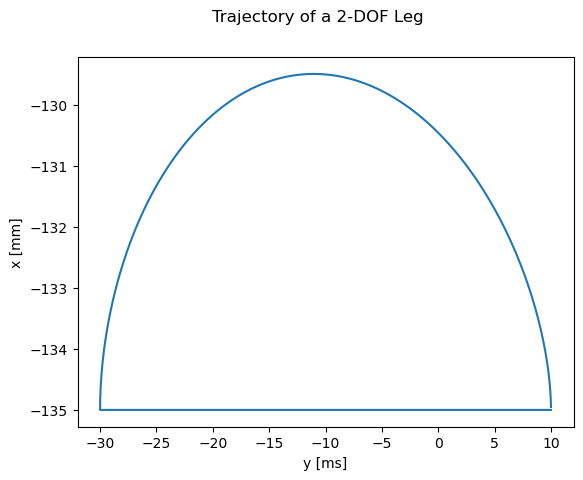
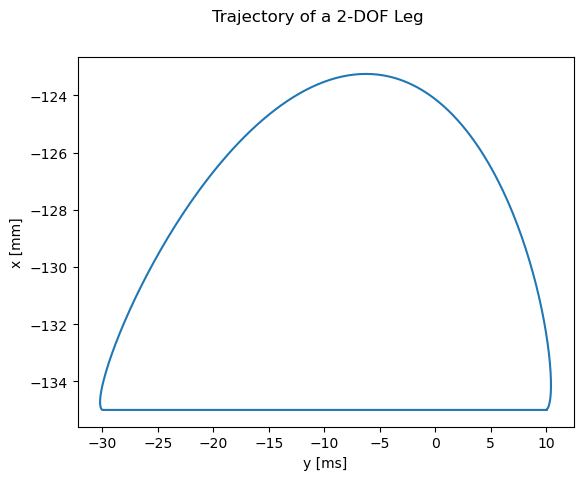
trt

diff --git a/projects/project_robo_dog.html b/projects/project_robo_dog.html
@@ -196,36 +196,30 @@
 									With the same idea, the angle of the hip can be calculated:
 									<div style="text-align: center;">
 										<math xmlns="http://www.w3.org/1998/Math/MathML">
-											<msub><mi>&#945;</mi><mi>hip</mi></msub>
-											<mo>=</mo>
-											<mi>arctan</mi>
-											<mo>(</mo>
-												<mfrac>
-												<mi>Y</mi>
-												<mi>X</mi>
-												</mfrac>
-											<mo>)</mo>
-											<mo>-</mo>
-											<mi>arccos</mi>
-											<mo>(</mo>
-												<mfrac>
-												<mrow>
-													<msup><msub><mi>L</mi><mi>tight</mi></msub><mn>2</mn></msup>
-													<mo>+</mo>
-													<msup><mi>d</mi><mn>2</mn></msup>
-													<mo>-</mo>
-													<msup><msub><mi>L</mi><mi>lowerleg</mi></msub><mn>2</mn></msup>
-												</mrow>
-												<mrow>
-													<mn>2</mn>
-													<mo>&#x2062;</mo>
-													<msub><mi>L</mi><mi>tight</mi></msub>
-													<mo>&#x2062;</mo>
-													<mi>d</mi>
-												</mrow>
-												</mfrac>
-											<mo>)</mo>
-										</math>
+  <mrow>
+    <mi>B</mi>
+    <mo>(</mo><mi>t</mi><mo>)</mo>
+    <mo>=</mo>
+    <munder>
+      <mo>∑</mo>
+      <mrow>
+        <mi>i</mi><mo>=</mo><mn>0</mn>
+      </mrow>
+    </munder>
+    <msup><mn></mn><mn>4</mn></msup>
+    <mo> </mo>
+    <mrow>
+      <mi>binom</mi>
+      <mo>(</mo><mn>4</mn><mo>,</mo><mi>i</mi><mo>)</mo>
+      <mo>&#x2062;</mo>
+      <msup><mo>(</mo><mi>1</mi><mo>-</mo><mi>t</mi><mo>)</mo><mrow><mn>4</mn><mo>-</mo><mi>i</mi></mrow></msup>
+      <mo>&#x2062;</mo>
+      <msup><mi>t</mi><mi>i</mi></msup>
+      <mo>&#x2062;</mo>
+      <msub><mi>P</mi><mi>i</mi></msub>
+    </mrow>
+  </mrow>
+</math>
 										<br>
 									</div>
 									<br>
@@ -235,6 +229,62 @@
 									</p>
 									<h4>Movement of the legs</h4>
 									<p>
+										With the help of the inverse kinematic, it is possible to define trajectories for a feet in x and y dimension. <br>
+										There are some requirements for the trajectories during the walking gait: <br>
+										<ul>	
+											<li>The foot has to be lifted during the forward movement.</li>
+											<li>The foot has to move smoothly.</li>
+											<li>The foot has to be set down smoothly.</li>
+											<li>The foot has to be accelarated smoothly.</li>
+										</ul>
+										These requirements can be fulfilled with a Bezier curve of fourth order which is shown below. <br>
+										<br>
+										<div style="text-align: center;">
+											<math xmlns="http://www.w3.org/1998/Math/MathML">
+												<mrow>
+													<mi>B</mi>
+													<mo>(</mo><mi>t</mi><mo>)</mo>
+													<mo>=</mo>
+													<msup><mo>(</mo><mi>1</mi><mo>-</mo><mi>t</mi><mo>)</mo><mn>4</mn></msup>
+													<mo>&#x2062;</mo>
+													<msub><mi>P</mi><mn>0</mn></msub>
+													<mo>+</mo>
+													<mn>4</mn>
+													<mo>&#x2062;</mo>
+													<msup><mo>(</mo><mi>1</mi><mo>-</mo><mi>t</mi><mo>)</mo><mn>3</mn></msup>
+													<mo>&#x2062;</mo>
+													<mi>t</mi>
+													<mo>&#x2062;</mo>
+													<msub><mi>P</mi><mn>1</mn></msub>
+													<mo>+</mo>
+													<mn>6</mn>
+													<mo>&#x2062;</mo>
+													<msup><mo>(</mo><mi>1</mi><mo>-</mo><mi>t</mi><mo>)</mo><mn>2</mn></msup>
+													<mo>&#x2062;</mo>
+													<msup><mi>t</mi><mn>2</mn></msup>
+													<mo>&#x2062;</mo>
+													<msub><mi>P</mi><mn>2</mn></msub>
+													<mo>+</mo>
+													<mn>4</mn>
+													<mo>&#x2062;</mo>
+													<mi>(</mi><mi>1</mi><mo>-</mo><mi>t</mi><mi>)</mi>
+													<mo>&#x2062;</mo>
+													<msup><mi>t</mi><mn>3</mn></msup>
+													<mo>&#x2062;</mo>
+													<msub><mi>P</mi><mn>3</mn></msub>
+													<mo>+</mo>
+													<msup><mi>t</mi><mn>4</mn></msup>
+													<mo>&#x2062;</mo>
+													<msub><mi>P</mi><mn>4</mn></msub>
+												</mrow>
+											</math>
+										</div>
+										<br>
+										Where P0 to P4 are the control points of the Bezier curve and t is a parameter between 0 and 1. <br>
+										The following curve is used for the foot trajectory during the walking gait.
+										<div style="text-align: center;">
+											<img class="image_in_text" src="../images/robo_dog/leg_tr.png"></img>
+										</div>
 										The animation below shows either the movement of one leg or all four legs during the walking gait. <br>
 										As described above, the walking gait is divided into four phases. <br>
 										In each phase, one leg is lifted, moved forward and set down again, while the other three legs provide stability. <br>

diff --git a/project_files/robo_dog/animation.js b/project_files/robo_dog/animation.js
@@ -46,6 +46,9 @@ function trajectory(time, phaseOffset) {
     let phase = ((time / stepTime) + phaseOffset) % 1;
 
     let x, y;
+    function swingX(p, start, end, speed){
+            return (start - speed - end) / 2 * Math.cos(Math.pi * p) - speed * p + (start - (start - speed - end) / 2);
+    }
 
     if (phase < 0.75) {
         // Working phase
@@ -60,10 +63,16 @@ function trajectory(time, phaseOffset) {
         p3 = startingPos[1]-   0.3 * stepHeight;
         p4 = startingPos[1];
 
-        x = startingPos[0]-0.75*stepLength+ stepLength * (0.5 - 0.5 * Math.cos(Math.PI * p));
+        //x = startingPos[0]-0.75*stepLength+ stepLength * (0.5 - 0.5 * Math.cos(Math.PI * p));
         y = (1 - p) ** 4 * p0 +4 * (1 - p) ** 3 * p * p1 +6 * (1 - p) ** 2 * p ** 2 * p2 +4 * (1 - p) * p ** 3 * p3 + p** 4 * p4;
-       
+       x= swingX(p, startingPos[0]-0.75*stepLength, startingPos[0]+0.25*stepLength, stepLength/stepTime);
     }
+    /*
+
+        function swingX(p, start, end, speed){
+            return (start + speed - end) / 2 * Math.cos(Math.pi * p) + speed * p + (start - (start + speed - end) / 2)
+    }
+    */
 
     return [x, y];
 }
@@ -75,10 +84,10 @@ async function animateStepsFour() {
         for (let t = 0; t < stepTime; t += 1000 / frequency) {
             ctx.clearRect(0, 0, canvas.width, canvas.height);
 
-            drawLeg(inverseKinematics(trajectory(t,(1/4))), hips[0]); //RR
-            drawLeg(inverseKinematics(trajectory(t,(3/4))), hips[1]); //RL
-            drawLeg(inverseKinematics(trajectory(t,(2/4))), hips[2]); //FR
-            drawLeg(inverseKinematics(trajectory(t,0)), hips[3]); //FL
+            drawLeg(inverseKinematics(trajectory(t,(2/4))), hips[0]); //RR 2
+            drawLeg(inverseKinematics(trajectory(t,(0/4))), hips[1]); //RL 4
+            drawLeg(inverseKinematics(trajectory(t,(1/4))), hips[2]); //FR 3
+            drawLeg(inverseKinematics(trajectory(t,(3/4))), hips[3]); //FL 1
             await sleep(1000 / frequency);
         }
     }
